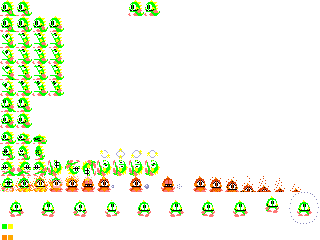
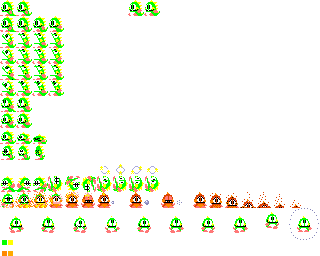
Death, GodMode, and BubbleKill

diff --git a/BubbleBobble/src/Player.cpp b/BubbleBobble/src/Player.cpp
@@ -18,6 +18,8 @@ Player::Player(const Point& p, State s, Look view) :
 	elapsedTimeBubble = 0;
 	score = 0;
 	lives = 3;
+	deadTimer = 0;
+	god = false;
 	
 }
 Player::~Player()
@@ -84,7 +86,7 @@ AppStatus Player::Initialise()
 
 	sprite->SetAnimationDelay((int)PlayerAnim::DEATH, ANIM_DELAY);
 	for (i = 0; i < 13; ++i) {
-		sprite->AddKeyFrame((int)PlayerAnim::DEATH, {(float)i*n, 13*n, n, n, });
+		sprite->AddKeyFrameOffset((int)PlayerAnim::DEATH, {(float)i*n, 10*n, n, 2*n}, 0, -n);
 	}
 		
 	sprite->SetAnimation((int)PlayerAnim::IDLE_RIGHT);
@@ -111,11 +113,18 @@ State Player::GetState() const
 {
 	return state;
 }
+bool Player::GetGod() const
+{
+	return god;
+}
 void Player::MinusLife()
 {
-	lives--;
-	state = State::DEAD;
-	SetAnimation((int)PlayerAnim::DEATH);
+	if (god == false)
+	{
+		lives--;
+		state = State::DEAD;
+		SetAnimation((int)PlayerAnim::DEATH);
+	}
 }
 void Player::SetTileMap(TileMap* tilemap)
 {
@@ -213,9 +222,19 @@ void Player::Update()
 {
 	//Player doesn't use the "Entity::Update() { pos += dir; }" default behaviour.
 	//Instead, uses an independent behaviour for each axis.
-	if (false) {
+	
+	if (state == State::DEAD) {
+		deadTimer += GetFrameTime();
+		if (deadTimer >= DEAD_COOLDOWN)
+		{
+			state = State::IDLE;
+			SetAnimation((int)PlayerAnim::IDLE_RIGHT);
+			pos = { PLAYER_SPAWN_X, PLAYER_SPAWN_Y };
+			deadTimer = 0;
+		}
 	}
 	else {
+		GodMode();
 		MoveX();
 		MoveY();
 		BubbleShot();
@@ -237,6 +256,12 @@ void Player::Update()
 	}
 	Sprite* sprite = dynamic_cast<Sprite*>(render);
 	sprite->Update();
+}
+void Player::GodMode() {
+	if (IsKeyPressed(KEY_F3))
+	{
+		god = !god;
+	}
 }
 void Player::MoveX()
 {
@@ -310,7 +335,7 @@ void Player::MoveY()
 void Player::BubbleShot() {
 	
  	elapsedTimeBubble += GetFrameTime();
-	if (IsKeyPressed(KEY_SPACE) && elapsedTimeBubble >= .2)
+	if (IsKeyPressed(KEY_SPACE) && elapsedTimeBubble >= .25)
 	{
 		if (IsLookingLeft()) {
 			Bubble* bubl = new Bubble({ pos.x - PLAYER_PHYSICAL_WIDTH, pos.y }, BubbleDirection::LEFT);
@@ -385,6 +410,22 @@ void Player::LogicJumping()
 		}
 	}
 }
+bool Player::CheckBubbleCollision(const AABB& enemy_box)
+{
+	AABB bubl_box;
+
+	auto it = bubbles.begin();
+	while (it != bubbles.end())
+	{
+		bubl_box = (*it)->GetHitbox();
+		if (bubl_box.TestAABB(enemy_box))
+		{
+			return true;
+		}
+		++it;
+	}
+	return false;
+}
 void Player::DrawDebug(const Color& col) const
 {	
 	Entity::DrawHitbox(pos.x, pos.y, width, height, col);
@@ -410,6 +451,11 @@ void Player::DrawDebug(const Color& col) const
 		 ++it;
 	 }
  }
+ void Player::DrawGod(const Color& col) const
+ {
+	 DrawText(TextFormat("GOD MODE ON"), 90, -12, 10, col);
+ }
+
  void Player::ClearBubbles()
  {
 	 for (Bubble* bubl : bubbles)

diff --git a/BubbleBobble/src/Scene.cpp b/BubbleBobble/src/Scene.cpp
@@ -240,6 +240,7 @@ AppStatus Scene::LoadLevel(int stage)
 				pos.y = y * TILE_SIZE + TILE_SIZE - 1;
 				enemy = new Enemy(pos, EnemyState::ANGRY, EnemyLook::LEFT);
 				enemy->Initialise();
+				enemy->SetTileMap(level);
 				enemies.push_back(enemy);
 				map[i] = 0;
 			}
@@ -249,6 +250,7 @@ AppStatus Scene::LoadLevel(int stage)
 				pos.y = y * TILE_SIZE + TILE_SIZE - 1;
 				enemy = new Enemy(pos, EnemyState::ANGRY, EnemyLook::RIGHT);
 				enemy->Initialise();
+				enemy->SetTileMap(level);
 				enemies.push_back(enemy);
 				map[i] = 0;
 			}
@@ -295,6 +297,7 @@ void Scene::Render()
 		RenderObjects();
 		player->Draw();
 		player->DrawBubbles();
+		if (player->GetGod()) player->DrawGod(GREEN);
 		RenderEnemies();
 	}
 	if (debug == DebugMode::SPRITES_AND_HITBOXES || debug == DebugMode::ONLY_HITBOXES)
@@ -302,6 +305,7 @@ void Scene::Render()
 		RenderObjectsDebug(YELLOW);
 		player->DrawDebug(GREEN);
 		player->DrawBubblesDebug(PURPLE);
+		if (player->GetGod()) player->DrawGod(GREEN);
 		RenderEnemiesDebug(RED);
 	}
 
@@ -317,7 +321,7 @@ void Scene::Release()
 }
 void Scene::CheckCollisions()
 {
-	AABB player_box, obj_box, enemy_box;
+	AABB player_box, obj_box, enemy_box, bubl_box;
 	
 	player_box = player->GetHitbox();
 	auto itObj = objects.begin();
@@ -346,8 +350,16 @@ void Scene::CheckCollisions()
 		if (player_box.TestAABB(enemy_box) && player->GetState() != State::DEAD)  
 		{
 			player->MinusLife();
+			itEnem++;
 		}
-		++itEnem;
+		else if (player->CheckBubbleCollision(enemy_box))
+		{
+			delete* itEnem;
+			itEnem = enemies.erase(itEnem);
+		}
+		else {
+			itEnem++;
+		}
 	}
 }
 void Scene::ClearLevel()
@@ -396,5 +408,5 @@ void Scene::RenderGUI() const
 {
 	//Temporal approach
 	DrawText(TextFormat("SCORE : %d", player->GetScore()), 10, 5, 8, LIGHTGRAY);
-	DrawText(TextFormat("LIVES : %d", player->GetLives()), 150, 5, 8, LIGHTGRAY);
+	DrawText(TextFormat("LIVES : %d", player->GetLives()), 200, 5, 8, LIGHTGRAY);
 }

diff --git a/BubbleBobble/src/Player.h b/BubbleBobble/src/Player.h
@@ -34,6 +34,13 @@
 //Gravity affects jumping velocity when jump_delay is 0
 #define GRAVITY_FORCE			1
 
+//Spawn locations
+#define PLAYER_SPAWN_X			24
+#define PLAYER_SPAWN_Y			199
+
+//Dead timer animation
+#define DEAD_COOLDOWN			1.67
+
 //Logic states
 enum class State { IDLE, WALKING, JUMPING, FALLING, DEAD };
 enum class Look { RIGHT, LEFT };
@@ -62,13 +69,17 @@ public:
 	void IncrScore(int n);
 	int GetScore();
 	int GetLives() const;
+	bool GetGod() const;
 	State GetState() const;
 	void MinusLife();
+
+	bool CheckBubbleCollision(const AABB& enemy_box);
 
 	void Update();
 	void DrawDebug(const Color& col) const;
 	void DrawBubbles();
 	void DrawBubblesDebug(const Color& col) const;
+	void DrawGod(const Color& col) const;
 	void ClearBubbles();
 	void Release();
 
@@ -77,6 +88,7 @@ private:
 	bool IsLookingLeft() const;
 
 	//Player mechanics
+	void GodMode();
 	void MoveX();
 	void MoveY();
 	void LogicJumping();
@@ -101,6 +113,8 @@ private:
 	State state;
 	Look look;
 	int jump_delay;
+	float deadTimer;
+	bool god;
 
 	std::vector<Bubble*> bubbles;
 	float elapsedTimeBubble;

diff --git a/BubbleBobble/src/Sprite.cpp b/BubbleBobble/src/Sprite.cpp
@@ -31,6 +31,16 @@ void Sprite::AddKeyFrame(int id, const Rectangle& rect)
         animations[id].frames.push_back(rect);
     }
 }
+void Sprite::AddKeyFrameOffset(int id, const Rectangle& rect, int offsetX, int offsetY)
+{
+    if (id >= 0 && id < animations.size())
+    {
+        animations[id].offsetX = offsetX;
+        animations[id].offsetX = offsetY;
+        animations[id].frames.push_back(rect);
+    }
+}
+
 void Sprite::SetAnimation(int id)
 {
     if (id >= 0 && id < animations.size())
@@ -107,7 +117,9 @@ void Sprite::DrawTint(int x, int y, const Color& col) const
     if (current_anim >= 0 && current_anim < animations.size())
     {
         Rectangle rect = animations[current_anim].frames[current_frame];
-        DrawTextureRec(*img, rect, { (float)x, (float)y }, col);
+        int offsetY = animations[current_anim].offsetX;
+        int offsetX = animations[current_anim].offsetY;
+        DrawTextureRec(*img, rect, { (float)x + offsetX, (float)y + offsetY}, col);
     }
 }
 void Sprite::Release()

diff --git a/BubbleBobble/src/Enemy.cpp b/BubbleBobble/src/Enemy.cpp
@@ -10,7 +10,7 @@ Enemy::Enemy(const Point&p, EnemyState s, EnemyLook l) :
 	state = s;
 	look = l;
 	angryTimer = 0;
-
+	map = nullptr;
 }
 Enemy::~Enemy()
 {
@@ -48,6 +48,10 @@ AppStatus Enemy::Initialise()
 
 	return AppStatus::OK;
 }
+void Enemy::SetTileMap(TileMap* tilemap)
+{
+	map = tilemap;
+}
 void Enemy::SetAnimation(int id)
 {
 	Sprite* sprite = dynamic_cast<Sprite*>(render);
@@ -67,7 +71,31 @@ void Enemy::Update()
 }
 void Enemy::MoveX()
 {
+	AABB box;
+	int prev_x = pos.x;
+	box = GetHitbox();
+	if (look == EnemyLook::RIGHT)
+	{
+		pos.x += ENEMY_SPEED;
+		if (map->TestCollisionWallRight(box))
+		{
+			pos.x = prev_x;
+			look = EnemyLook::LEFT;
+			SetAnimation((int)ZenchanAnim::WALK_LEFT);
+		}
 
+	}
+	else if (look == EnemyLook::LEFT)
+	{
+		pos.x += -ENEMY_SPEED;
+		if (map->TestCollisionWallLeft(box))
+		{
+			pos.x = prev_x;
+			look = EnemyLook::RIGHT;
+			SetAnimation((int)ZenchanAnim::WALK_RIGHT);
+		}
+
+	}
 }
 void Enemy::MoveY()
 {

diff --git a/BubbleBobble/src/Sprite.h b/BubbleBobble/src/Sprite.h
@@ -8,6 +8,8 @@ enum class AnimMode { AUTOMATIC, MANUAL };
 struct Animation
 {
     int delay;
+    int offsetX;
+    int offsetY;
     std::vector<Rectangle> frames;
 };
 
@@ -20,6 +22,7 @@ public:
     void SetNumberAnimations(int num);
     void SetAnimationDelay(int id, int delay);
     void AddKeyFrame(int id, const Rectangle& rect);
+    void AddKeyFrameOffset(int id, const Rectangle& rect, int offsetX, int offsetY);
     void SetAnimation(int id);
     int GetAnimation();
 

diff --git a/BubbleBobble/src/Enemy.h b/BubbleBobble/src/Enemy.h
@@ -9,7 +9,8 @@
 #define	ENEMY_PHYSICAL_WIDTH	14
 #define ENEMY_PHYSICAL_HEIGTH	14
 
-//
+//Enemy speed
+#define ENEMY_SPEED				1
 
 enum class EnemyState {NORMAL, ANGRY};
 enum class EnemyLook { RIGHT, LEFT };
@@ -27,6 +28,8 @@ public:
 	~Enemy();
 
 	AppStatus Initialise();
+	void SetTileMap(TileMap* tilemap);
+
 	void Update();
 	void DrawDebug(const Color& col) const;
 	void Release();
@@ -45,5 +48,5 @@ private:
 	EnemyLook look;
 	float angryTimer;
 	
-
+	TileMap* map;
 };

diff --git a/BubbleBobble/src/Bubble.cpp b/BubbleBobble/src/Bubble.cpp
@@ -104,9 +104,9 @@ void Bubble::MoveX()
 			forceDelay = BUBBLE_FORCE_DELAY;
 			forceMax++;
 			box = GetHitbox();
-			if (pos.x < 19)
+			if (pos.x < 16)
 			{
-				pos.x = 19;
+				pos.x = 16;
 				forceDelay = BUBBLE_FORCE_DELAY * 2;
 				state = BubbleState::NORMAL;
 				SetAnimation((int)BubbleAnim::IDLE);

diff --git a/BubbleBobble/src/Game.h b/BubbleBobble/src/Game.h
@@ -44,7 +44,6 @@ private:
     double startTime;
 
 
-
     //To work with original game units and then scale the result
     RenderTexture2D target;
     Rectangle src, dst;

diff --git a/BubbleBobble/src/Game.cpp b/BubbleBobble/src/Game.cpp
@@ -39,7 +39,7 @@ Game::~Game()
         delete scene;
         scene = nullptr;
     }
-
+    UnloadRenderTexture(target);
 }
 AppStatus Game::Initialise(float scale)
 {
